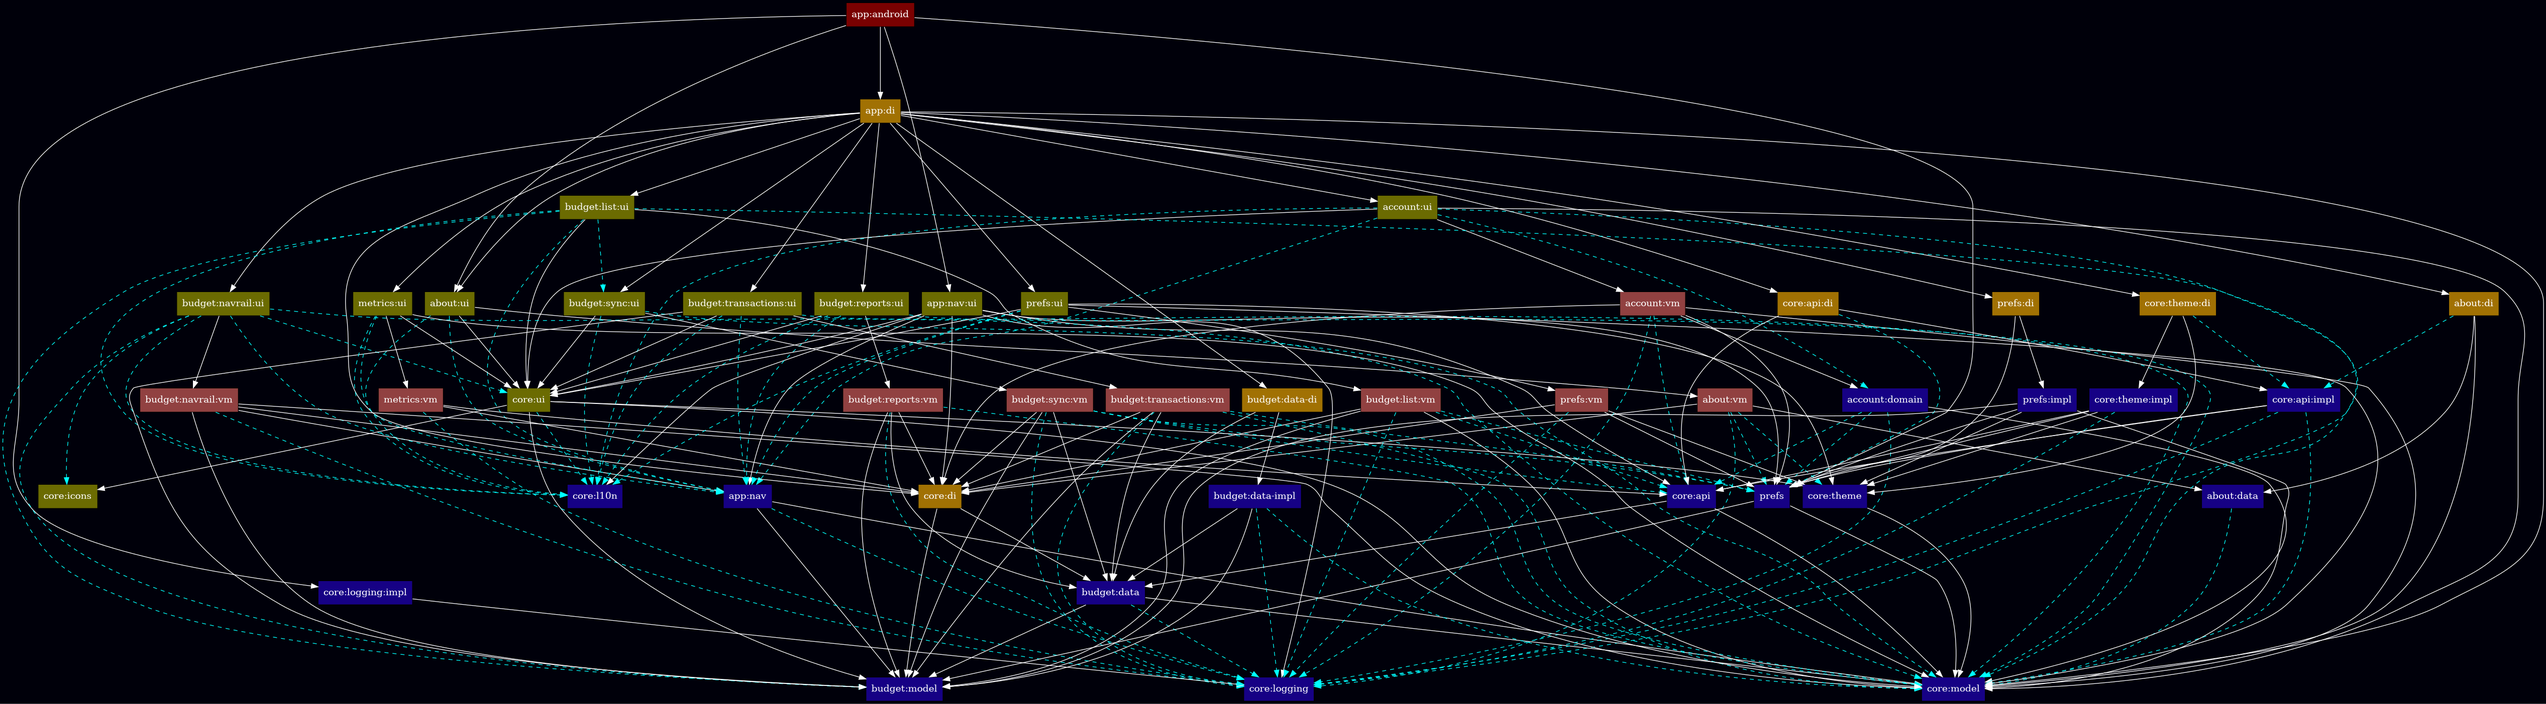
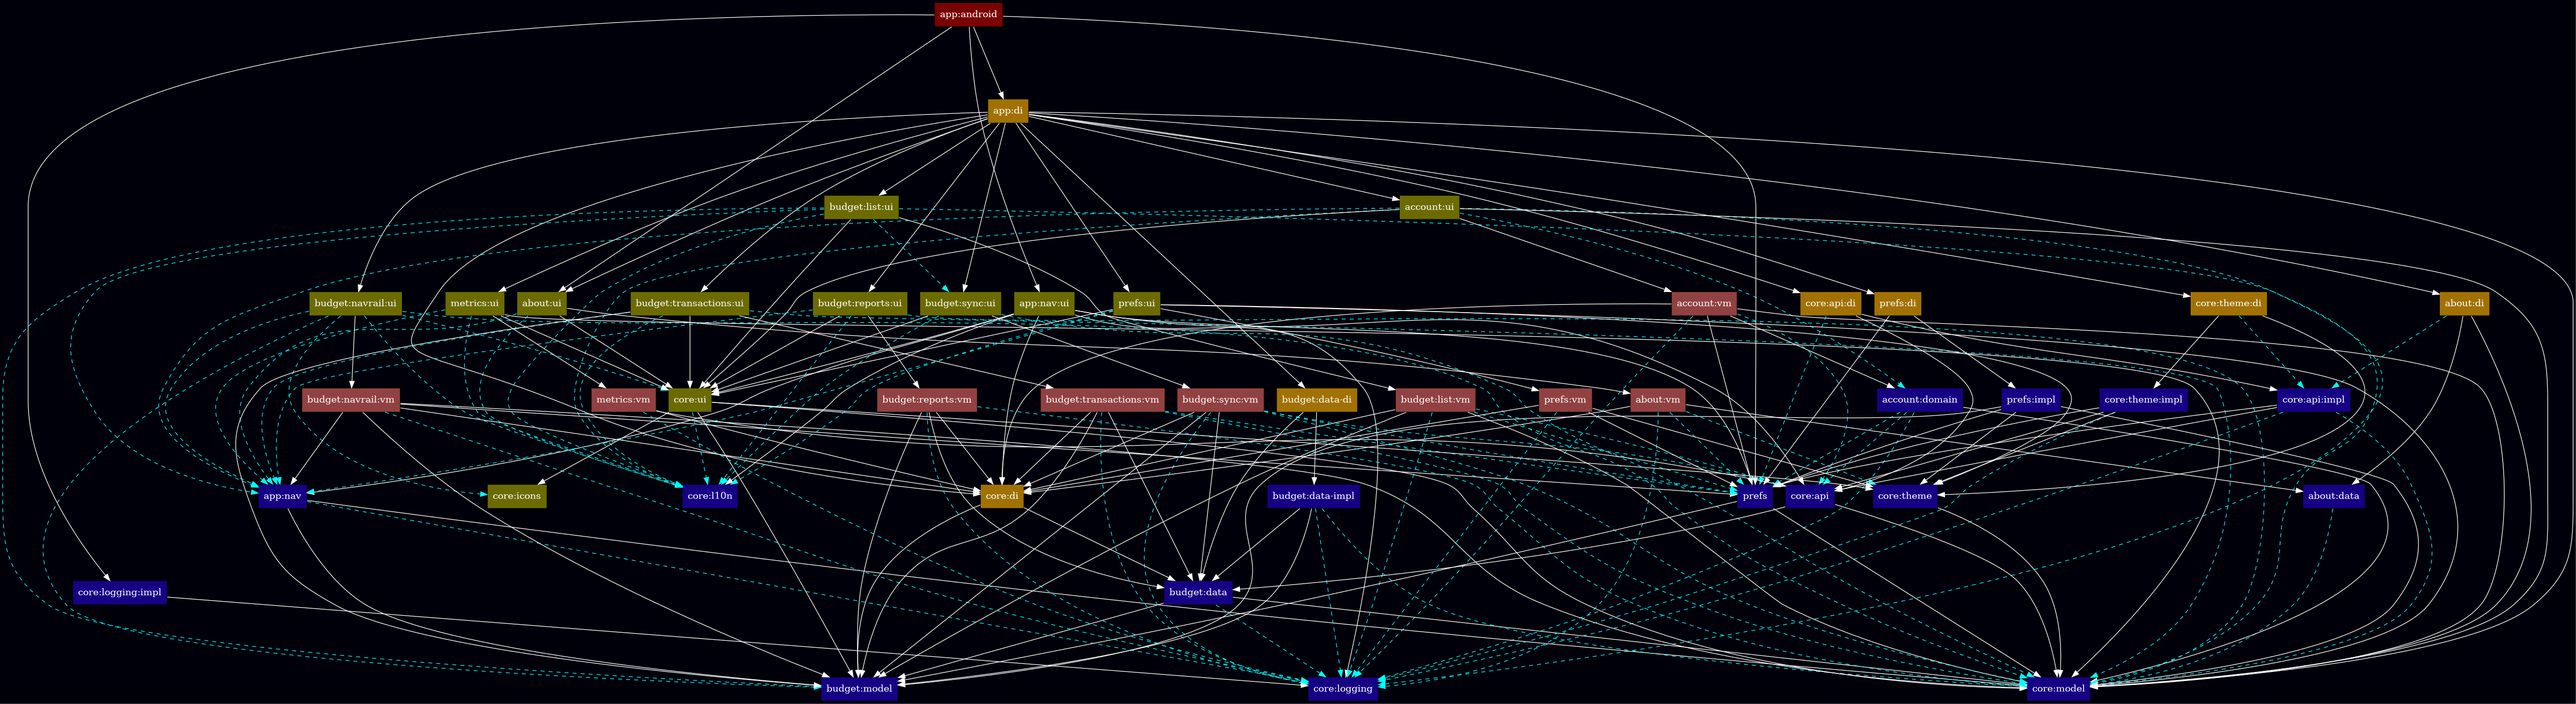
Auto open budget on app start (#1056)
Closes #1051

diff --git a/aktual-app/nav/ui/src/commonMain/kotlin/aktual/app/nav/UseCases.kt b/aktual-app/nav/ui/src/commonMain/kotlin/aktual/app/nav/UseCases.kt
@@ -4,16 +4,19 @@ package aktual.app.nav
 
 import aktual.api.client.TokenExpiredEvent
 import aktual.budget.model.BudgetFiles
+import aktual.budget.model.BudgetId
 import aktual.budget.model.Currency
 import aktual.budget.model.CurrencySymbolPosition
 import aktual.budget.model.DbMetadata
 import aktual.budget.model.NumberFormat
+import aktual.budget.model.database
+import aktual.budget.model.metadata
+import aktual.budget.model.readMetadata
 import aktual.core.connection.ConnectionMonitor
 import aktual.core.connection.ServerPinger
 import aktual.core.connection.ServerVersionFetcher
 import aktual.core.di.BudgetGraphHolder
 import aktual.core.model.PingStateHolder
-import aktual.core.model.ServerUrl
 import aktual.core.model.Token
 import aktual.core.ui.BlurConfig
 import aktual.core.ui.BottomBarState
@@ -100,21 +103,51 @@ class FormatConfigUseCase(
 }
 
 @Inject
-class InitialRouteUseCase(private val preferences: AppPreferences) {
-  private data class AuthPrefs(val serverUrl: ServerUrl?, val token: Token?)
-
+class InitialRouteUseCase(
+  private val preferences: AppPreferences,
+  private val files: BudgetFiles,
+  private val budgetGraphHolder: BudgetGraphHolder,
+) {
   operator fun invoke(scope: CoroutineScope): StateFlow<NavKey?> {
-    val authPrefs = combine(preferences.serverUrl.asFlow(), preferences.token.asFlow(), ::AuthPrefs)
+    val prefValues =
+      combine(
+        preferences.serverUrl.asFlow(),
+        preferences.token.asFlow(),
+        preferences.lastOpenedBudgetId.asFlow(),
+        ::Triple,
+      )
     return scope.launchMolecule(Immediate) {
-      val prefs by authPrefs.collectAsState(null)
-      val p = prefs ?: return@launchMolecule null // still loading
+      val prefs by prefValues.collectAsState(null)
+      val (url, token, budgetId) = prefs ?: return@launchMolecule null // still loading
       when {
-        p.serverUrl == null -> ServerUrlNavRoute
-        p.token != null -> ListBudgetsNavRoute(p.token)
+        url == null -> ServerUrlNavRoute
+        token != null -> resolveAuthenticatedRoute(token, budgetId)
         else -> LoginNavRoute
       }
     }
   }
+
+  private fun resolveAuthenticatedRoute(token: Token, budgetId: BudgetId?): NavKey =
+    when {
+      budgetId == null -> ListBudgetsNavRoute(token)
+
+      !localFilesExist(budgetId) -> ListBudgetsNavRoute(token)
+
+      else ->
+        try {
+          val metadata = files.readMetadata(budgetId)
+          budgetGraphHolder.update(metadata)
+          BudgetNavRailNavRoute(token, budgetId)
+        } catch (e: Exception) {
+          logcat.w(e) { "Failed to auto-open budget $budgetId, falling back to budget list" }
+          ListBudgetsNavRoute(token)
+        }
+    }
+
+  private fun localFilesExist(id: BudgetId): Boolean =
+    with(files) {
+      listOf(database(id, mkdirs = false), metadata(id, mkdirs = false)).all(fileSystem::exists)
+    }
 }
 
 @Inject
@@ -163,6 +196,7 @@ class AppLifecycleManager(
       tokenExpired.collect {
         logcat.w { "Token expired, clearing stored token" }
         preferences.token.delete()
+        preferences.lastOpenedBudgetId.delete()
       }
     }
   }

diff --git a/aktual-budget/sync/ui/src/commonMain/kotlin/aktual/budget/sync/ui/SyncBudgetDialog.kt b/aktual-budget/sync/ui/src/commonMain/kotlin/aktual/budget/sync/ui/SyncBudgetDialog.kt
@@ -20,6 +20,7 @@ import aktual.core.ui.PreviewWithThemedParams
 import aktual.core.ui.TextField
 import aktual.core.ui.ThemedParams
 import aktual.core.ui.checkbox
+import aktual.core.ui.disabled
 import aktual.core.ui.keyboardFocusRequester
 import alakazam.compose.VerticalSpacer
 import androidx.compose.foundation.background
@@ -155,7 +156,8 @@ private fun SyncBudgetDialog(
         when {
           passwordState is KeyPasswordState.Active -> {
             val enabled = passwordState.input.isNotEmpty()
-            val color = if (enabled) theme.buttonPrimaryText else theme.buttonNormalDisabledText
+            val color =
+              if (enabled) theme.buttonPrimaryText else theme.buttonNormalDisabledText.disabled
             TextButton(
               enabled = enabled,
               onClick = { onAction(SyncBudgetAction.ConfirmKeyPassword) },
@@ -169,10 +171,12 @@ private fun SyncBudgetDialog(
             )
           }
           else -> {
+            val enabled = overallState == SyncOverallState.Succeeded
+            val color = if (enabled) theme.reportsGreen else theme.buttonNormalDisabledText.disabled
             TextButton(
-              enabled = overallState == SyncOverallState.Succeeded,
+              enabled = enabled,
               onClick = { onAction(SyncBudgetAction.Continue) },
-              content = { Text(text = Strings.syncOpen) },
+              content = { Text(text = Strings.syncOpen, color = color) },
             )
           }
         }

diff --git a/aktual-budget/navrail/vm/src/commonMain/kotlin/aktual/budget/navrail/vm/BudgetNavRailViewModel.kt b/aktual-budget/navrail/vm/src/commonMain/kotlin/aktual/budget/navrail/vm/BudgetNavRailViewModel.kt
@@ -4,7 +4,9 @@ import aktual.app.nav.BudgetNavEntryContributor
 import aktual.app.nav.BudgetNavGraph
 import aktual.budget.model.BudgetId
 import aktual.core.model.Token
+import aktual.prefs.AppPreferences
 import androidx.lifecycle.ViewModel
+import androidx.lifecycle.viewModelScope
 import dev.zacsweers.metro.AppScope
 import dev.zacsweers.metro.Assisted
 import dev.zacsweers.metro.AssistedFactory
@@ -14,15 +16,21 @@ import dev.zacsweers.metrox.viewmodel.ManualViewModelAssistedFactory
 import dev.zacsweers.metrox.viewmodel.ManualViewModelAssistedFactoryKey
 import kotlinx.collections.immutable.ImmutableSet
 import kotlinx.collections.immutable.toImmutableSet
+import kotlinx.coroutines.launch
 
 @AssistedInject
 class BudgetNavRailViewModel(
   @Assisted val token: Token,
   @Assisted val budgetId: BudgetId,
   factory: BudgetNavGraph.Factory,
+  private val appPreferences: AppPreferences,
 ) : ViewModel() {
   val budgetNavEntryContributors: ImmutableSet<BudgetNavEntryContributor> =
     factory.createBudgetNavGraph().budgetNavEntryContributors.toImmutableSet()
+
+  init {
+    viewModelScope.launch { appPreferences.lastOpenedBudgetId.set(budgetId) }
+  }
 
   @AssistedFactory
   @ManualViewModelAssistedFactoryKey

diff --git a/aktual-budget/list/vm/src/commonMain/kotlin/aktual/budget/list/vm/ListBudgetsViewModel.kt b/aktual-budget/list/vm/src/commonMain/kotlin/aktual/budget/list/vm/ListBudgetsViewModel.kt
@@ -14,6 +14,7 @@ import aktual.core.model.Token
 import aktual.core.model.UrlOpener
 import aktual.prefs.AppPreferences
 import aktual.prefs.asStateFlow
+import aktual.prefs.delete
 import alakazam.kotlin.CoroutineContexts
 import androidx.lifecycle.ViewModel
 import androidx.lifecycle.viewModelScope
@@ -105,6 +106,7 @@ class ListBudgetsViewModel(
         val budgetDir = directory(id)
         withContext(contexts.io) { fileSystem.deleteRecursively(budgetDir) }
       }
+      clearLastOpenedIfMatches(id)
 
       // delete remote
       try {
@@ -137,6 +139,7 @@ class ListBudgetsViewModel(
         }
 
         logcat.d { "Successfully deleted $budgetDir" }
+        clearLastOpenedIfMatches(id)
         clearDeletingState()
         mutableCloseDialog.emit(true)
       }
@@ -168,6 +171,12 @@ class ListBudgetsViewModel(
           }
         }
       mutableState.update { newState }
+    }
+  }
+
+  private suspend fun clearLastOpenedIfMatches(id: BudgetId) {
+    if (preferences.lastOpenedBudgetId.get() == id) {
+      preferences.lastOpenedBudgetId.delete()
     }
   }
 

diff --git a/aktual-prefs/impl/src/commonMain/kotlin/aktual/prefs/AppPreferencesImpl.kt b/aktual-prefs/impl/src/commonMain/kotlin/aktual/prefs/AppPreferencesImpl.kt
@@ -1,5 +1,6 @@
 package aktual.prefs
 
+import aktual.budget.model.BudgetId
 import aktual.core.model.ServerUrl
 import aktual.core.model.Token
 import androidx.datastore.core.DataStore
@@ -31,4 +32,11 @@ class AppPreferencesImpl(dataStore: DataStore<Preferences>) : AppPreferences {
 
   override val mostRecentNumBudgets: Preference<Int> =
     dataStore.int(key = intPreferencesKey("mostRecentNumBudgets"), default = 3).required()
+
+  override val lastOpenedBudgetId: NullablePreference<BudgetId> =
+    dataStore.translated(
+      key = stringPreferencesKey("lastOpenedBudgetId"),
+      default = null,
+      translator = toStringTranslator(::BudgetId),
+    )
 }

diff --git a/aktual-prefs/src/commonMain/kotlin/aktual/prefs/AppPreferences.kt b/aktual-prefs/src/commonMain/kotlin/aktual/prefs/AppPreferences.kt
@@ -1,5 +1,6 @@
 package aktual.prefs
 
+import aktual.budget.model.BudgetId
 import aktual.core.model.ServerUrl
 import aktual.core.model.Token
 
@@ -9,4 +10,5 @@ interface AppPreferences {
   val serverUrl: NullablePreference<ServerUrl>
   val isPrivacyEnabled: Preference<Boolean>
   val mostRecentNumBudgets: Preference<Int>
+  val lastOpenedBudgetId: NullablePreference<BudgetId>
 }
